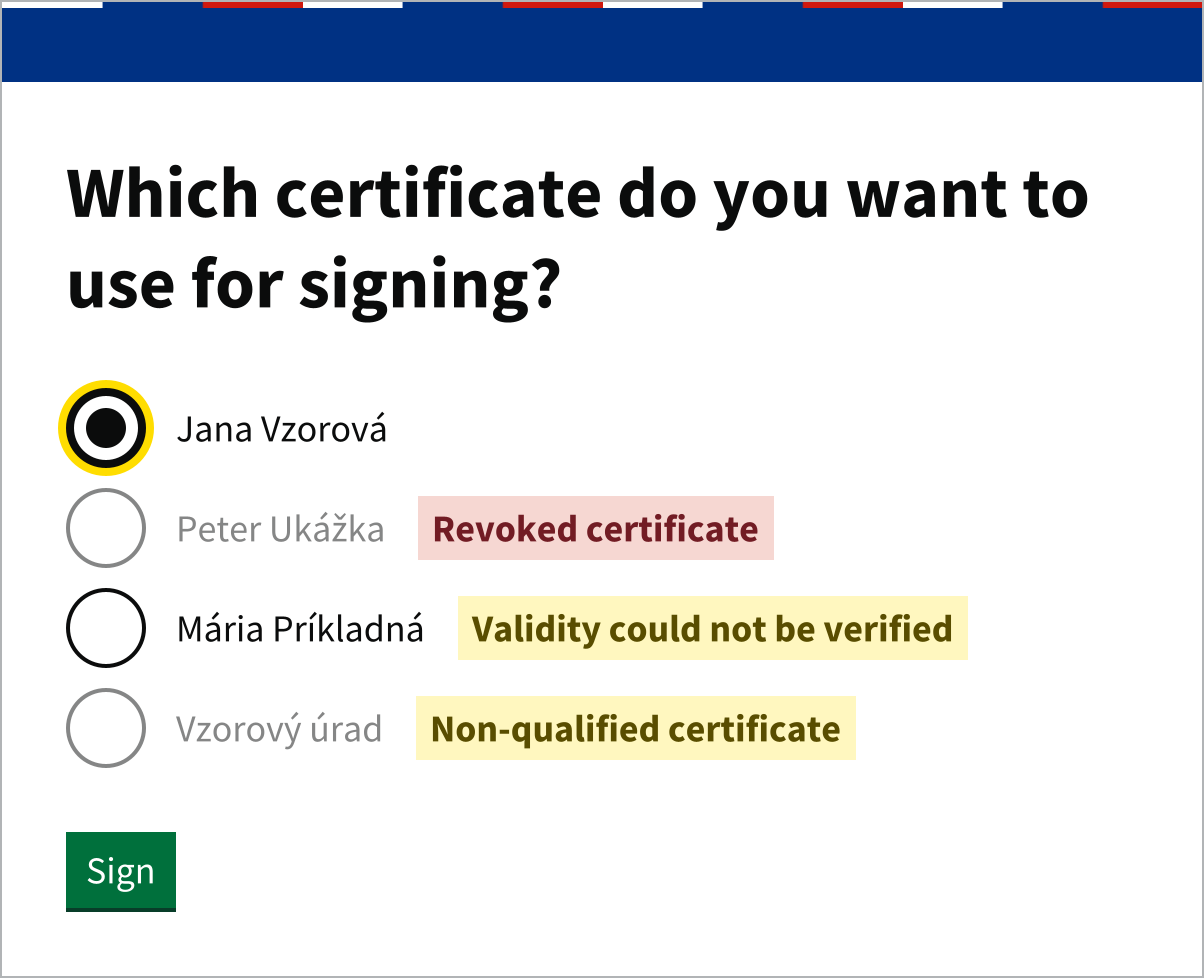
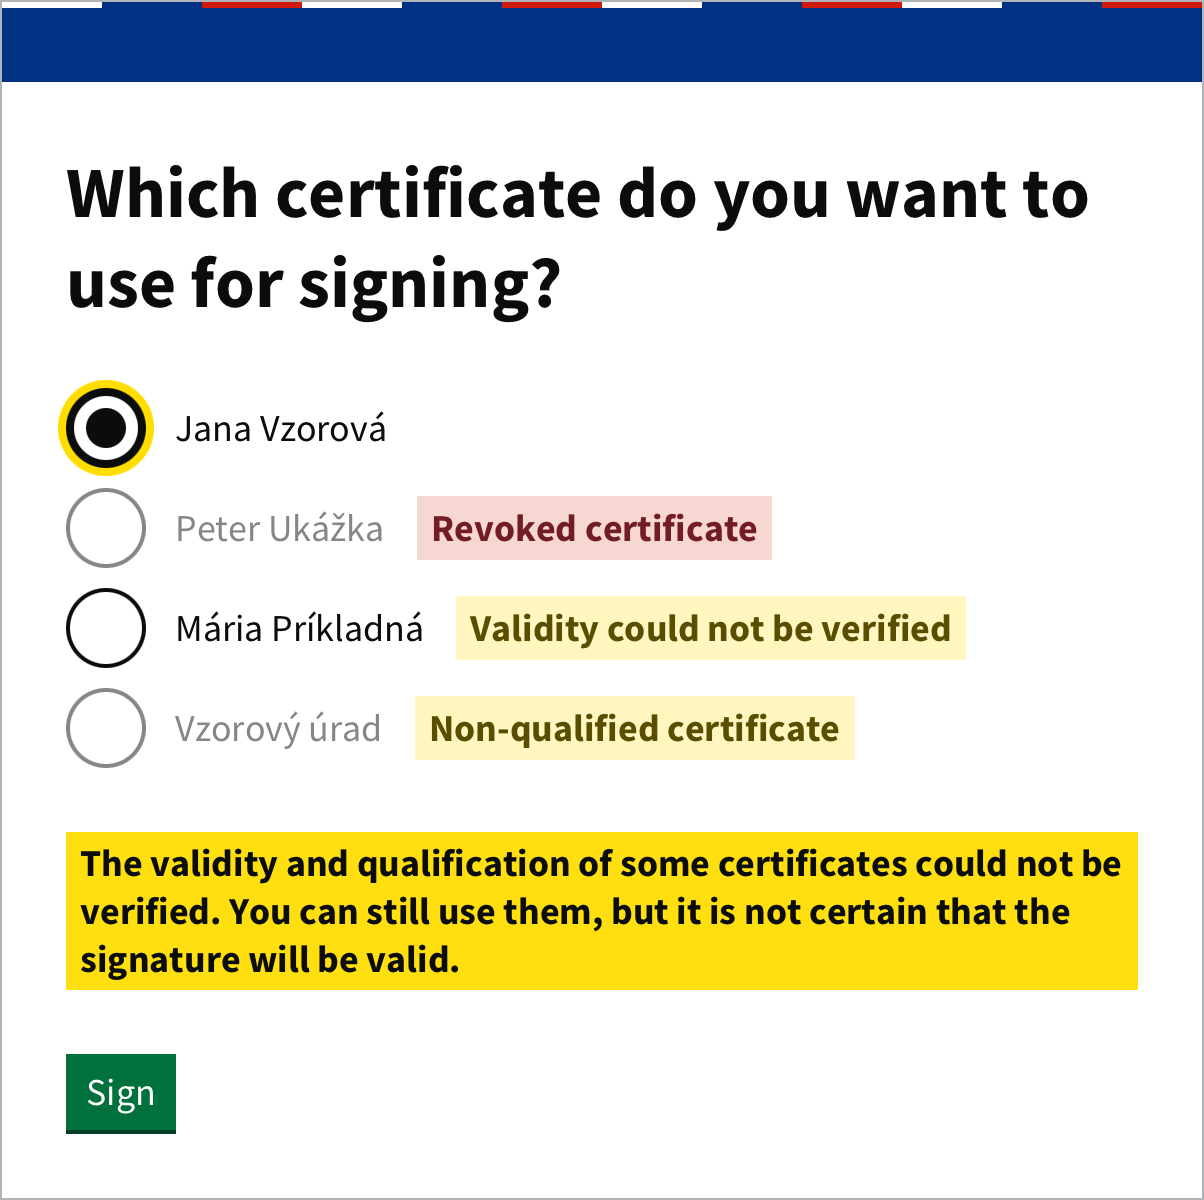
document certificate checks without trusted lists or internet

diff --git a/docs/docs/sk/card-and-pin.md b/docs/docs/sk/card-and-pin.md
@@ -85,17 +85,20 @@ Autogram zisťuje:
 - **či certifikát nebol zrušený**, napríklad po strate karty. Pýta sa na to certifikačnej autority, ktorá ho vydala, preto potrebuje pripojenie na internet.
 - **či je certifikát kvalifikovaný** podľa dôveryhodných zoznamov krajín zapnutých v [Nastaveniach](settings.md#overovanie-podpisov). Kvalifikovaný elektronický podpis vytvoríte iba kvalifikovaným certifikátom.
 
-Overovanie zvyčajne trvá zlomok sekundy. Krátko po spustení Autogramu ešte počká, kým sa načítajú dôveryhodné zoznamy, a tlačidlo vtedy píše **Načítavajú sa dôveryhodné zoznamy…**. Pri platnom kvalifikovanom certifikáte sa nič nezobrazí. Inak je pri certifikáte štítok:
+Overovanie zvyčajne trvá zlomok sekundy. Krátko po spustení Autogramu ešte počká, kým sa načítajú dôveryhodné zoznamy, a tlačidlo vtedy píše **Načítavajú sa dôveryhodné zoznamy…**. Pri platnom kvalifikovanom certifikáte sa nič nezobrazí. Inak je pri certifikáte štítok. Ak Autogram zistí o certifikáte viac vecí naraz, štítok ukáže tú najdôležitejšiu.
 
 ![Certifikáty so štítkami po overení](/assets/images/screenshots/sk/certificate-picker-checks.png)
 
 | Štítok | Čo znamená | Dá sa ním podpísať? |
 | --- | --- | --- |
-| **Zrušený certifikát** | Certifikačná autorita certifikát zrušila. | Nie |
+| **Zrušený certifikát** | Certifikačná autorita certifikát zrušila. Podpis ním nie je platný. | Iba ak je v [Nastaveniach](settings.md#bezpecnost) zapnuté **Povoliť podpisovanie exspirovanými a zrušenými certifikátmi** |
 | **Nekvalifikovaný certifikát** | Certifikát nie je kvalifikovaný podľa dôveryhodných zoznamov. | Iba ak je v [Nastaveniach](settings.md#bezpecnost) zapnuté **Povoliť podpisovanie nekvalifikovanými certifikátmi** |
-| **Platnosť sa nepodarilo overiť** | Autogram nezistil, či certifikát nebol zrušený, napríklad bez pripojenia na internet. | Áno |
-| **Kvalifikáciu sa nepodarilo overiť** | Dôveryhodné zoznamy sa nepodarilo načítať, napríklad pri prvom spustení Autogramu bez pripojenia na internet. | Áno |
-| **Exspirovaný certifikát** | Platnosť certifikátu uplynula. Takéto certifikáty sa zobrazia, iba ak je v Nastaveniach zapnuté **Povoliť podpisovanie exspirovanými certifikátmi**. | Áno |
+| **Platnosť sa nepodarilo overiť** | Autogram nezistil, či certifikát nebol zrušený alebo či je kvalifikovaný. Napríklad nemá pripojenie na internet alebo sa nepodarilo stiahnuť dôveryhodný zoznam krajiny, v ktorej bol certifikát vydaný. | Áno |
+| **Exspirovaný certifikát** | Platnosť certifikátu uplynula. Takéto certifikáty sa zobrazia, iba ak je v Nastaveniach zapnuté **Povoliť podpisovanie exspirovanými a zrušenými certifikátmi**. | Áno |
+
+Ak sa niektorý certifikát nepodarilo overiť, Autogram na to pod zoznamom upozorní. Podpísať ním môžete aj tak, napríklad keď práve nemáte pripojenie na internet. Nie je však isté, či bude podpis v poriadku.
+
+![Certifikáty, ktoré sa nepodarilo overiť](/assets/images/screenshots/sk/certificate-picker-offline.png)
 
 Ak nie je kvalifikovaný žiadny certifikát, Autogram pod nimi zobrazí radu s odkazom **Otvoriť nastavenia**. Najčastejšie je príčinou to, že certifikát vydala certifikačná autorita z krajiny, ktorej dôveryhodný zoznam nemáte zapnutý. Autogram vtedy túto krajinu v rade uvedie. Keď nastavenia zatvoríte, výber certifikátu sa zobrazí znova.
 

diff --git a/docs/docs/en/card-and-pin.md b/docs/docs/en/card-and-pin.md
@@ -85,17 +85,20 @@ Autogram checks:
 - **whether the certificate was revoked**, for example after the card was lost. It asks the certification authority that issued the certificate, so it needs an internet connection.
 - **whether the certificate is qualified** according to the trusted lists of the countries turned on in [Settings](settings.md#signature-validation). Only a qualified certificate makes a qualified electronic signature.
 
-The check usually takes a fraction of a second. Shortly after Autogram starts, it also waits until the trusted lists are loaded, and the button then reads **Loading trusted lists…**. A valid qualified certificate shows nothing. Otherwise the certificate has a label:
+The check usually takes a fraction of a second. Shortly after Autogram starts, it also waits until the trusted lists are loaded, and the button then reads **Loading trusted lists…**. A valid qualified certificate shows nothing. Otherwise the certificate has a label. If Autogram finds out several things about a certificate, the label shows the most important one.
 
 ![Certificates with labels after the check](/assets/images/screenshots/en/certificate-picker-checks.png)
 
 | Label | What it means | Can you sign with it? |
 | --- | --- | --- |
-| **Revoked certificate** | The certification authority revoked the certificate. | No |
+| **Revoked certificate** | The certification authority revoked the certificate. A signature made with it is not valid. | Only if **Allow signing with expired and revoked certificates** is turned on in [Settings](settings.md#security) |
 | **Non-qualified certificate** | The certificate is not qualified according to the trusted lists. | Only if **Allow signing with non-qualified certificates** is turned on in [Settings](settings.md#security) |
-| **Validity could not be verified** | Autogram could not find out whether the certificate was revoked, for example without an internet connection. | Yes |
-| **Qualification could not be verified** | The trusted lists could not be loaded, for example when Autogram first starts without an internet connection. | Yes |
-| **Expired certificate** | The certificate has expired. Such certificates are shown only if **Allow signing with expired certificates** is turned on in Settings. | Yes |
+| **Validity could not be verified** | Autogram could not find out whether the certificate was revoked or whether it is qualified. For example, there is no internet connection, or the trusted list of the country that issued the certificate could not be downloaded. | Yes |
+| **Expired certificate** | The certificate has expired. Such certificates are shown only if **Allow signing with expired and revoked certificates** is turned on in Settings. | Yes |
+
+If a certificate could not be verified, Autogram shows a warning below the list. You can still sign with it, for example when you are offline at the moment. It is not certain, though, that the signature will be valid.
+
+![Certificates that could not be verified](/assets/images/screenshots/en/certificate-picker-offline.png)
 
 If none of the certificates is qualified, Autogram shows a hint below them with an **Open settings** link. The most common reason is that the certificate was issued by a certification authority from a country whose trusted list is turned off. Autogram then names that country in the hint. When you close the settings, the certificate selection appears again.
 

diff --git a/docs/docs/en/settings.md b/docs/docs/en/settings.md
@@ -41,7 +41,7 @@ Autogram also uses these lists to find out whether the certificate you sign with
 | --- | --- | --- |
 | **Signature validity check** | Before signing, warns about invalid signatures the document already has. See [Warnings before signing](warnings.md#untrusted-signatures). | Yes |
 | **PDF/A compliance check** | Before signing, warns if the PDF is not in PDF/A format. See [Warnings before signing](warnings.md#pdfa). | Yes |
-| **Allow signing with expired certificates** | Expired certificates are also shown in the certificate list. Authorities may not accept a signature made with one. | No |
+| **Allow signing with expired and revoked certificates** | Expired certificates are also shown in the certificate selection, and a certificate that the certification authority revoked can be chosen too. A signature made with such a certificate is not valid. See [Choosing the certificate](card-and-pin.md#choosing-the-certificate). | No |
 | **Allow signing with non-qualified certificates** | A certificate that is not qualified according to the trusted lists can also be chosen in the certificate selection. A signature made with it is not a qualified electronic signature and authorities may not accept it. See [Choosing the certificate](card-and-pin.md#choosing-the-certificate). | No |
 | **Display detailed errors** | If a file cannot be opened, shows a detailed description of the error. | Yes |
 

diff --git a/docs/docs/sk/verification.md b/docs/docs/sk/verification.md
@@ -53,3 +53,7 @@ Tlačidlom **Zobraziť technické detaily** otvoríte úplnú správu o overení
 Autogram overuje podpisy podľa dôveryhodných zoznamov Európskej únie, ktoré sťahuje z internetu. Predvolene overuje podpisy z certifikátov poskytovateľov zo Slovenska, Česka, Rakúska, Poľska, Maďarska, Belgicka, Holandska a Španielska. Ďalšie krajiny zapnete v [Nastaveniach](settings.md#overovanie-podpisov). Každá ďalšia krajina overovanie spomalí.
 
 Ak sa dôveryhodné zoznamy nepodarí stiahnuť, Autogram zobrazí upozornenie, že podpisy nie je možné úplne overiť. Skontrolujte pripojenie na internet a dokument otvorte znova.
+
+Niekedy sa nepodarí stiahnuť iba zoznam niektorej krajiny, napríklad keď jej server práve neodpovedá. Autogram potom overuje podľa ostatných zoznamov. Ak má dokument podpis, ktorý sa pre chýbajúci zoznam nedá overiť, Autogram nad podpismi upozorní, koľko zoznamov sa nepodarilo stiahnuť. Pri ďalšom spustení Autogramu sa ich pokúsi stiahnuť znova.
+
+![Upozornenie, že sa nepodarilo stiahnuť niektoré dôveryhodné zoznamy](/assets/images/screenshots/sk/signed-document-trusted-lists.png)

diff --git a/docs/docs/en/verification.md b/docs/docs/en/verification.md
@@ -52,3 +52,7 @@ Click **Show signature details**. For each signature you see:
 Autogram validates signatures against the European Union trusted lists, which it downloads from the internet. By default it validates signatures with certificates from providers in Slovakia, Czechia, Austria, Poland, Hungary, Belgium, the Netherlands and Spain. You can turn on more countries in [Settings](settings.md#signature-validation). Each additional country slows down validation.
 
 If the trusted lists cannot be downloaded, Autogram shows a warning that the signatures cannot be fully validated. Check your internet connection and open the document again.
+
+Sometimes only the list of one country cannot be downloaded, for example when its server does not respond at the moment. Autogram then validates against the other lists. If the document has a signature that cannot be validated because of the missing list, Autogram shows above the signatures how many lists could not be downloaded. It tries to download them again the next time it starts.
+
+![Warning that some trusted lists could not be downloaded](/assets/images/screenshots/en/signed-document-trusted-lists.png)

diff --git a/docs/docs/sk/troubleshooting.md b/docs/docs/sk/troubleshooting.md
@@ -78,7 +78,7 @@ Autogram predvolene podpisuje iba XML formuláre slovenskej verejnej správy. In
 
 ### Podpisy sa nedajú overiť
 
-Ak Autogram hlási chybu pri sťahovaní dôveryhodných zoznamov, nemá prístup na internet alebo je server s dôveryhodnými zoznamami nedostupný. Skontrolujte pripojenie a dokument otvorte znova. Viac je na stránke [Overenie podpisov](verification.md#doveryhodne-zoznamy).
+Ak Autogram hlási chybu pri sťahovaní dôveryhodných zoznamov, nemá prístup na internet alebo je server s dôveryhodnými zoznamami nedostupný. Skontrolujte pripojenie a dokument otvorte znova. Ak hlási, že sa nepodarilo stiahnuť iba niektoré zoznamy, je nedostupný server niektorej krajiny. Skúste to neskôr. Viac je na stránke [Overenie podpisov](verification.md#doveryhodne-zoznamy).
 
 ## Inštalácia a aktualizácie
 

diff --git a/docs/docs/en/troubleshooting.md b/docs/docs/en/troubleshooting.md
@@ -78,7 +78,7 @@ By default, Autogram signs only Slovak government XML forms. You can sign other 
 
 ### Signatures cannot be validated
 
-If Autogram reports an error while downloading trusted lists, it has no internet access or the server with the trusted lists is unavailable. Check your connection and open the document again. See [Verifying signatures](verification.md#trusted-lists).
+If Autogram reports an error while downloading trusted lists, it has no internet access or the server with the trusted lists is unavailable. Check your connection and open the document again. If it reports that only some lists could not be downloaded, the server of a country is unavailable. Try again later. See [Verifying signatures](verification.md#trusted-lists).
 
 ## Installation and updates
 
